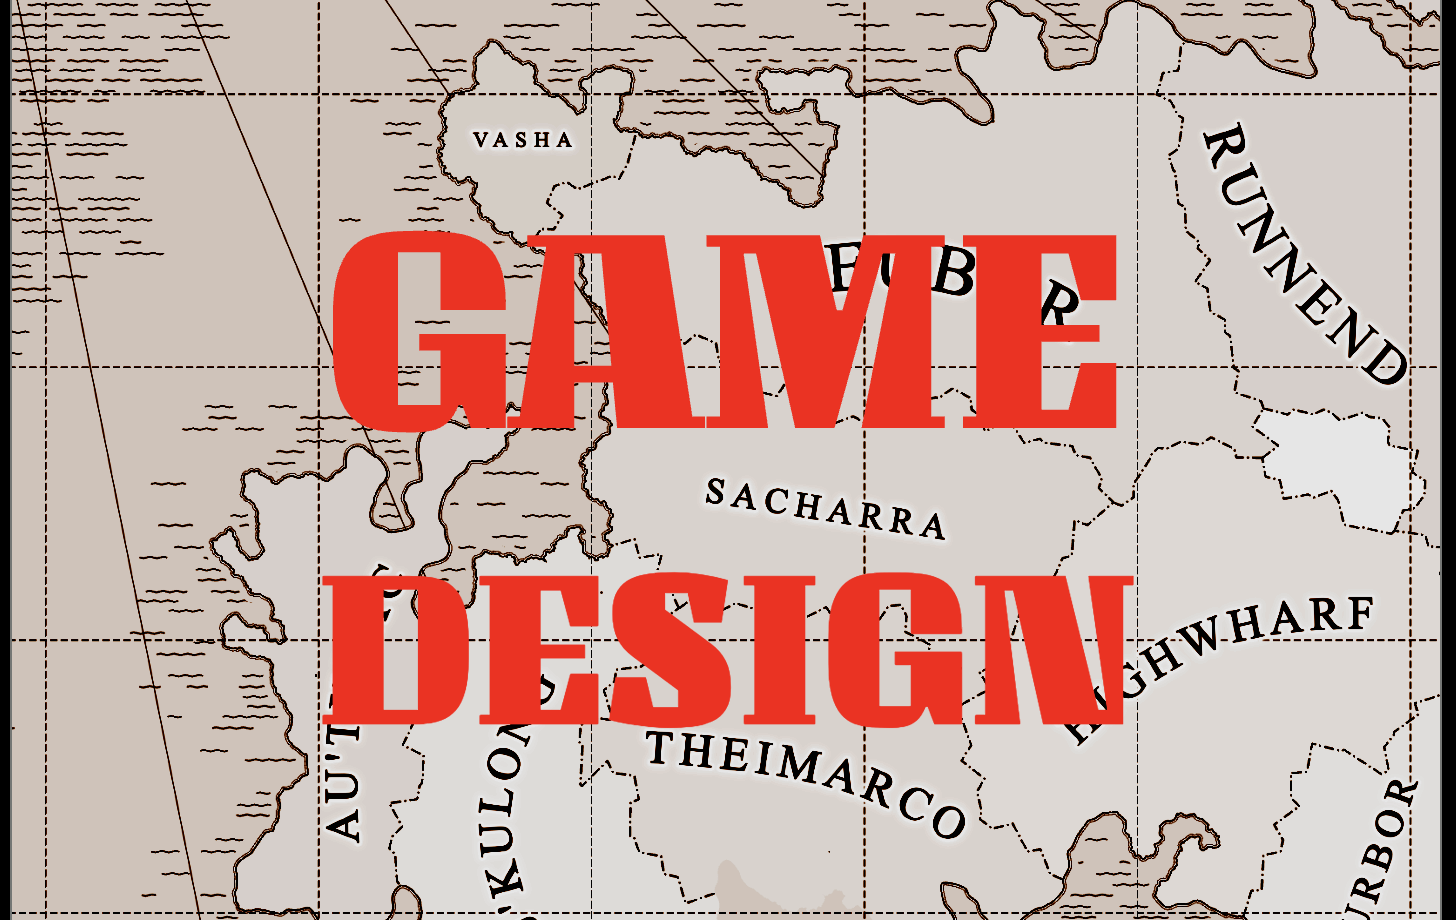
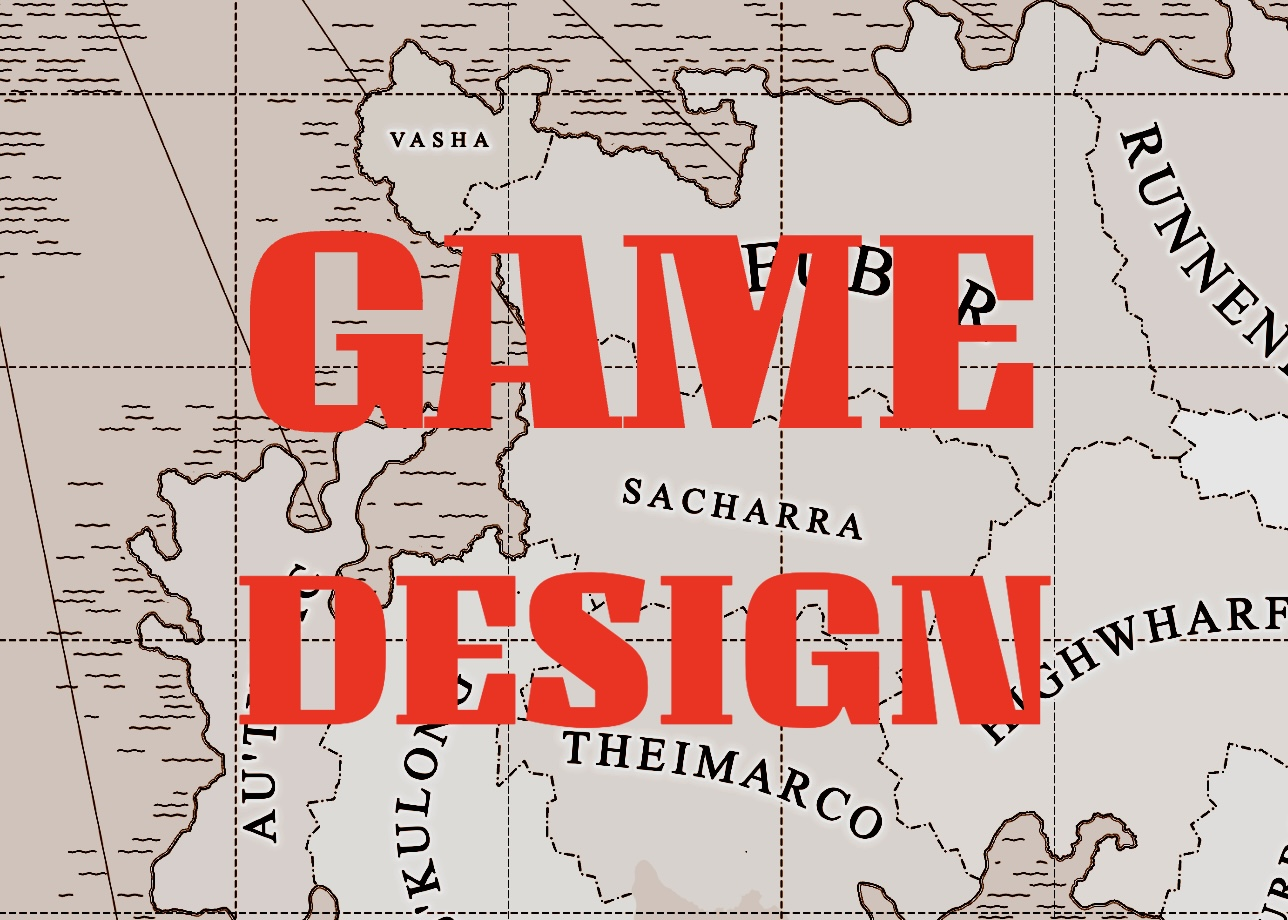
Created new buttons on home page for the 3 main categories of projects

diff --git a/src/app/page.tsx b/src/app/page.tsx
@@ -118,8 +118,27 @@ export default function Home() {
       </div>
 
       <br />
+
+      <div className="order-2 inline-flex">
+        <Link
+        href="/game-design"
+        className="inline-flex items-center justify-center px-1 py-3 text-base font-medium">
+          <img src="/Game Design.png" alt="Game Design" className="w-100 h-auto object-fit rounded-lg border-2 border-gray-300" />
+        </Link>
+        <Link
+        href="/prose-fiction"
+        className="inline-flex items-center justify-center px-1 py-3 text-base font-medium">
+          <img src="/Prose Fiction.png" alt="Prose Fiction" className="w-100 h-auto object-fit rounded-lg border-2 border-gray-300" />
+        </Link>
+        <Link
+        href="/scripts"
+        className="inline-flex items-center justify-center px-1 py-3 text-base font-medium">
+          <img src="/Scripts.png" alt="Scripts" className="w-100 h-auto object-fit rounded-lg border-2 border-gray-300" />
+        </Link>
+
+      </div>
       
-      <div className="space-y-6 order-2 md:order-1">
+      <div className="space-y-6 order-3 md:order-2">
           <h1 className="text-5xl font-extrabold tracking-tight text-gray-200 sm:text-6xl min-h-[80px] pt-16">About Me</h1>
           <p className="text-xl text-gray-200">
            Hello, my name is Connor Wray - I'm a writer and game designer. I graduated from the University of Cincinnati
